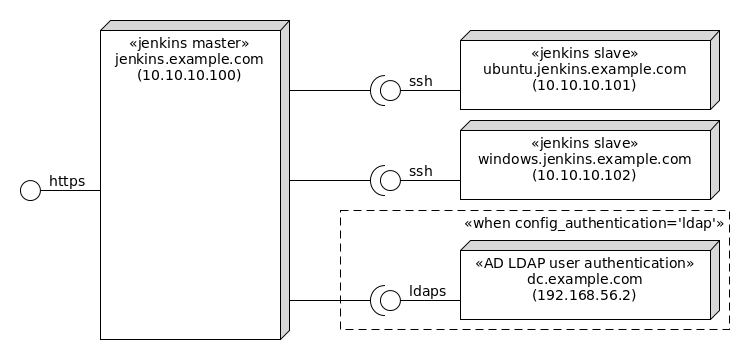
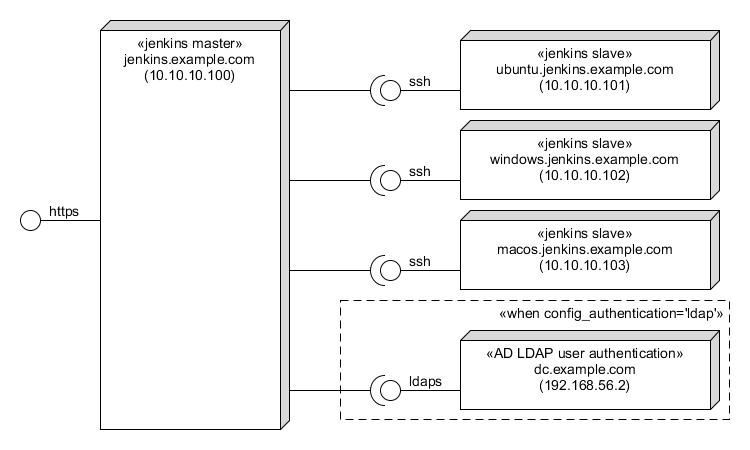
add the macOS slave node

diff --git a/README.md b/README.md
@@ -11,6 +11,7 @@ This configures Jenkins through [CLI/JNLP](https://wiki.jenkins-ci.org/display/J
 * Create a simple Free Style Project job.
 * Add a Ubuntu Linux slave node.
 * Add a Windows slave node.
+* Add a macOS slave node.
 
 **NB** If you are new to Groovy, be sure to check the [Groovy Learn X in Y minutes page](https://learnxinyminutes.com/docs/groovy/).
 
@@ -34,6 +35,8 @@ vagrant box add windows_2012_r2 windows_2012_r2_virtualbox.box
 rm *.box
 cd ..
 ```
+
+Build and install the [macOS Base Box](https://github.com/rgl/macos-vagrant).
 
 Add the following entry to your `/etc/hosts` file:
 
@@ -61,3 +64,5 @@ one of the example accounts, e.g. `alice.doe` and password `password`).
 Run `vagrant up ubuntu` to launch the Ubuntu slave.
 
 Run `vagrant up windows` to launch the Windows slave.
+
+Run `vagrant up macos` to launch the macOS slave.
